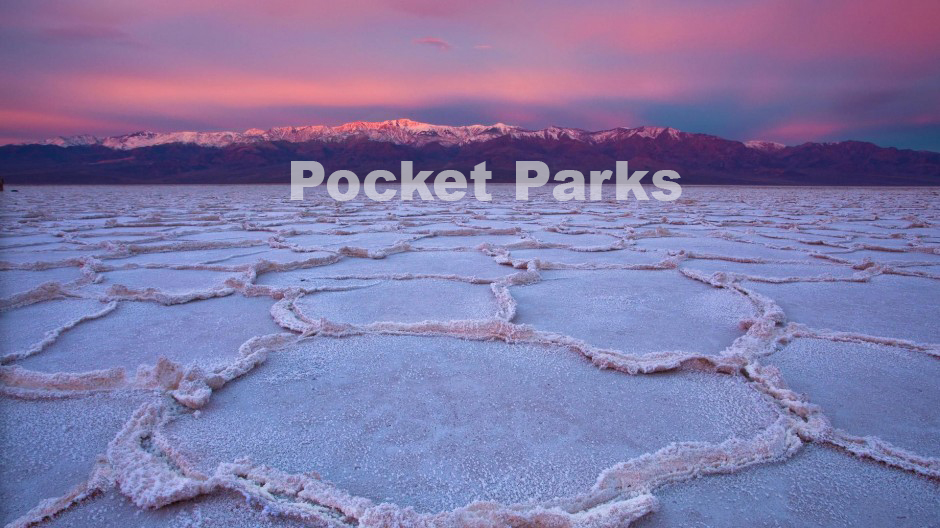
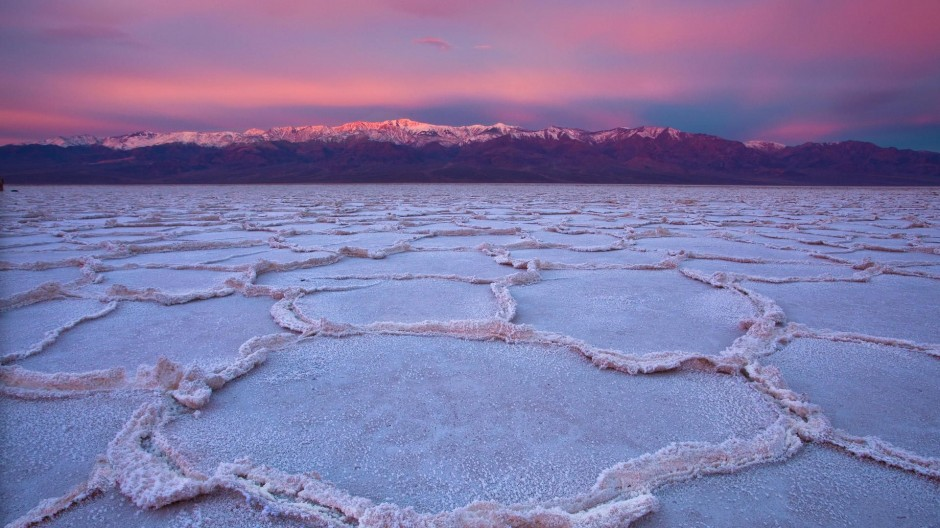
text over hero img

Changed region(s): [[0.3085, 0.303, 0.7404, 0.3939]]

diff --git a/client/src/components/Home.js b/client/src/components/Home.js
@@ -4,8 +4,9 @@ import React, { Component } from 'react'
 class Home extends Component {
     render(){
         return(
-            <div> 
+            <div className="heroImg"> 
                 <img style={{width:'100%', height:'auto'}} alt="" src={`/images/death-valley.jpg`}/>   
+                <div className="centerText">Pocket Park</div>
                 <br/>
                 <br/>
                 <br/>

diff --git a/client/src/index.css b/client/src/index.css
@@ -7,3 +7,17 @@ body {
 li{
   list-style: none;
 }
+
+.centerText{ 
+  position: absolute;
+  top: 44%;
+  left:50%;
+  transform: translate(-50%, -50%);
+  font-size: 90px;
+  font-family: Verdana, Geneva, Tahoma, sans-serif;
+  font-weight: bold;
+  color: aliceblue;
+  opacity: 0.6;
+
+
+}
